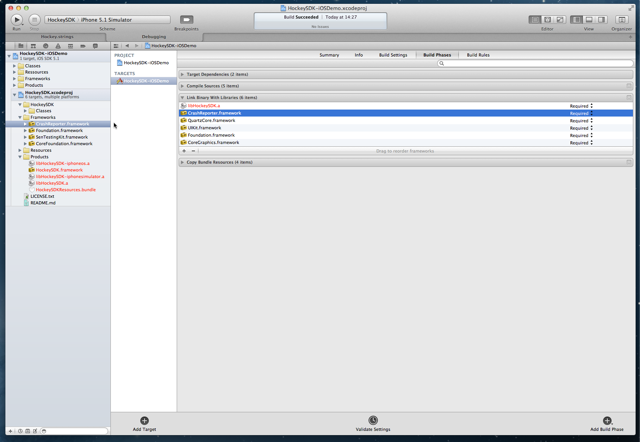
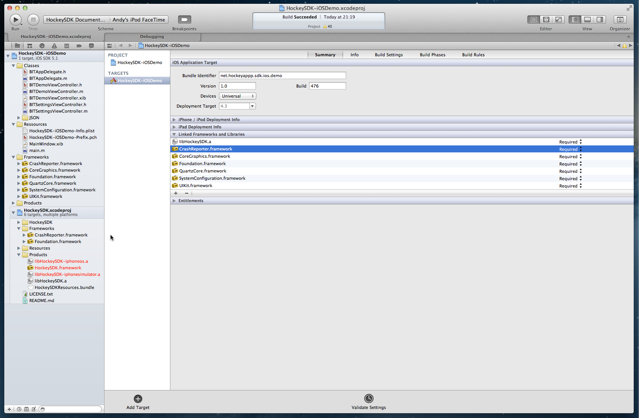
Improve installation documentation and screenshots

Changed region(s): [[0.0, 0.0, 1.0, 1.0]]

diff --git a/docs/Guide-Installation-Setup-template.md b/docs/Guide-Installation-Setup-template.md
@@ -35,39 +35,47 @@ This document contains the following sections:
 3. Select `Create groups for any added folders` and set the checkmark for your target. Then click `Finish`.
 4. Select your project in the `Project Navigator` (⌘+1).
 5. Select your target.
-6. Select the tab `Build Phases`.
+6. Select the tab `Summary`.
 7. Expand `Link Binary With Libraries`.
-8. You need all of the following frameworks:
+8. The following entries should be present:
+	* `CrashReporter.framework`
+	* `HockeySDK.framework`
 	* `CoreGraphics.framework`
     * `Foundation.framework`
     * `QuartzCore.framework`
     * `SystemConfiguration.framework`
     * `UIKit.framework`
 
-    ![XcodeFrameworks.png](XcodeFrameworks_normal.png)
+    <img src="XcodeFrameworks1_normal.png"/>
         
 9. If one of the frameworks is missing, then click the + button, search the framework and confirm with the `Add` button.
-10. Select `Build Settings`
-11. Search for `Other Linker Flags`
-12. Double click on the build Setting titled Other Linker Flags.
-13. Add `-ObjC`
+10. Select `Build Phases`
+11. The following entries should be present:
+	* `HockeySDKResources.bundle`
 
-    ![XcodeOtherLinkerFlags.png](XcodeOtherLinkerFlags_normal.png)
+    <img src="XcodeCopyBundle1_normal.png"/>
+        
+12. Select `Build Settings`
+13. Search for `Other Linker Flags`
+14. Double click on the build Setting titled Other Linker Flags.
+15. Add `-ObjC`
 
-14. Hit `Done`.
-15. Search for `preprocessor macros`
+    <img src="XcodeOtherLinkerFlags_normal.png"/>
 
-    ![XcodeMacros1.png](XcodeMacros1_normal.png)
+16. Hit `Done`.
+17. Search for `preprocessor macros`
 
-16. Select the top-most line and double-click the value field.
-17. Click the + button.
-18. Enter the following string into the input field and finish with "Done".<pre><code>CONFIGURATION_$(CONFIGURATION)</code></pre>
+    <img src="XcodeMacros1_normal.png"/>
 
-    ![XcodeMacros2.png](XcodeMacros2_normal.png)
+18. Select the top-most line and double-click the value field.
+19. Click the + button.
+20. Enter the following string into the input field and finish with "Done".<pre><code>CONFIGURATION_$(CONFIGURATION)</code></pre>
+
+    <img src="XcodeMacros2_normal.png"/>
 
     Now you can use `#if defined (CONFIGURATION_ABCDEF)` directives in your code, where `ABCDEF` is the actual name of **YOUR** build configuration.
 
-19. HockeySDK-iOS also needs a JSON library. If you deployment target iOS >= 5, everything is set. If your deployment target is iOS 4.x, please include one of the following libraries:
+21. HockeySDK-iOS also needs a JSON library. If you deployment target iOS >= 5, everything is set. If your deployment target is iOS 4.x, please include one of the following libraries:
 	* [JSONKit](https://github.com/johnezang/JSONKit)
 	* [SBJSON](https://github.com/stig/json-framework)
 	* [YAJL](https://github.com/gabriel/yajl-objc)
@@ -88,56 +96,58 @@ This document contains the following sections:
 1. Find the `HockeySDK.xcodeproj` file inside of the cloned HockeySDK-iOS project directory.
 2. Drag & Drop it into the `Project Navigator` (⌘+1).
 3. Select your project in the `Project Navigator` (⌘+1).
-4. Select your target.
+4. Select your target.5. 
 5. Select the tab `Build Phases`.
 6. Expand `Target Dependencies`.
 7. Add the following dependencies:
 	* `HockeySDKLib`
 	* `HockeySDKResources`
 
-    ![XcodeTargetDependencies.png](XcodeTargetDependencies_normal.png)
+    <img src="XcodeTargetDependencies_normal.png"/>
 
 8. Expand `Link Binary With Libraries`.
 9. Add `libHockeySDK.a`
 
-    ![XcodeLinkBinariesLib.png](XcodeLinkBinariesLib_normal.png)
+    <img src="XcodeLinkBinariesLib_normal.png"/>
 
 10. Drag & Drop `CrashReporter.framework` from the `Frameworks` folder in `HockeySDK.xcodeproj`
 
-    ![XcodeLinkBinariesPLCrashReporter.png](XcodeLinkBinariesPLCrashReporter_normal.png)
+    <img src="XcodeLinkBinariesPLCrashReporter_normal.png"/>
 
-11. You also need all of the following frameworks:
+11. The following entries should be present:
+	* `CrashReporter.framework`
+	* `libHockeySDK.a`
 	* `CoreGraphics.framework`
     * `Foundation.framework`
     * `QuartzCore.framework`
     * `SystemConfiguration.framework`
     * `UIKit.framework`
 
-    ![XcodeFrameworks.png](XcodeFrameworks_normal.png)
+    <img src="XcodeFrameworks2_normal.png"/>
 
 12. Expand `Copy Bundle Resources`.
 13. Drag & Drop `HockeySDKResources.bundle` from the `Products` folder in `HockeySDK.xcodeproj`
 14. Select `Build Settings`
 15. In `Header Search Paths`, add a path to `$(SRCROOT)\Vendor\HockeyKit\Classes`
 
-    ![XcodeHeaderSearchPath.png](XcodeHeaderSearchPath_normal.png)
+    <img src="XcodeHeaderSearchPath_normal.png"/>
 
 16. Search for `Other Linker Flags`
 17. Double click on the build Setting titled Other Linker Flags.
 18. Add `-ObjC`
 
-    ![XcodeOtherLinkerFlags.png](XcodeOtherLinkerFlags_normal.png)
+    <img src="XcodeOtherLinkerFlags_normal.png"/>
 
 19. Hit `Done`.
 20. Search for `preprocessor macros`
 
-    ![XcodeMacros1.png](XcodeMacros1_normal.png)
+    <img src="XcodeMacros1_normal.png"/>
 
 21. Select the top-most line and double-click the value field.
 22. Click the + button.
 23. Enter the following string into the input field and finish with "Done".<pre><code>CONFIGURATION_$(CONFIGURATION)</code></pre>
 
-    ![XcodeMacros2.png](XcodeMacros2_normal.png)
+    <img src="XcodeMacros2_normal.png"/>
 
     Now you can use `#if defined (CONFIGURATION_ABCDEF)` directives in your code, where `ABCDEF` is the actual name of **YOUR** build configuration.
 24. HockeySDK-iOS also needs a JSON library. If you deployment target iOS >= 5, everything is set. If your deployment target is iOS 4.x, please include one of the following libraries:
